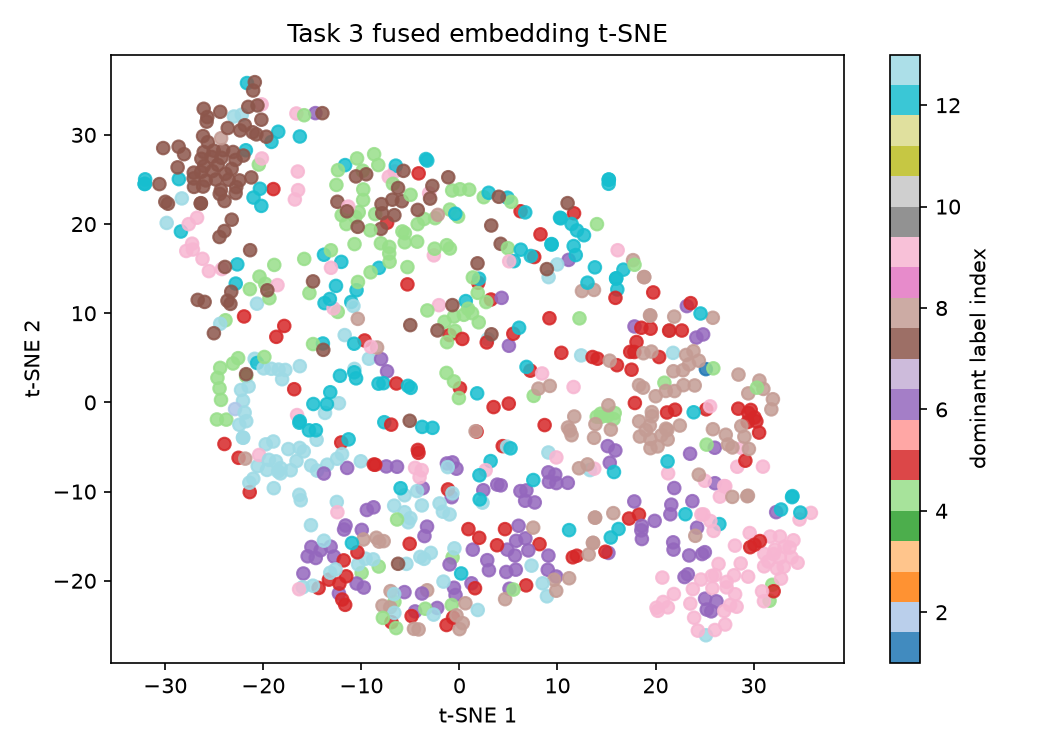
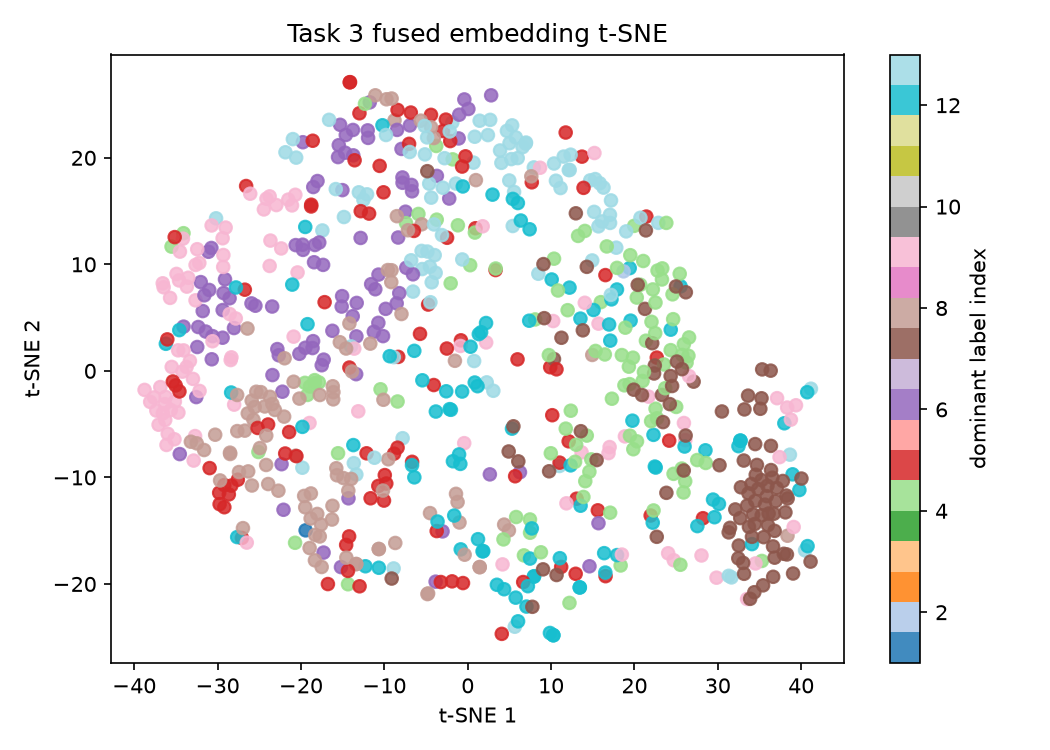
added detailed breakdown of the research

diff --git a/report/main.tex b/report/main.tex
@@ -141,6 +141,103 @@ accuracy and test loss. Checkpoints are selected using the validation
 procedure in the training scripts; the tables below contain held-out test
 metrics from the exported JSON artifacts.
 
+\section{Experimental Evolution and Reproducibility}
+\subsection{From smoke tests to real experiments}
+The project was developed in stages rather than by training a single final
+model. The initial scaffold included a synthetic graph generator and a
+smoke-test workflow. Synthetic samples used six controlled labels, small
+random node features, deterministic splits, and serialized graph manifests.
+This stage verified tensor shapes, checkpointing, evaluation, and
+case-study export. Synthetic outputs were deliberately excluded from the
+scientific results reported here.
+
+The next stage established the real text baseline. A MusicCaps download and
+preparation path was added, followed by stable hashing into 80/10/10
+train/validation/test partitions and DistilBERT fine-tuning. The project
+requirements then motivated the dataset decision: FMA-small was selected for
+the audio graph and fusion tasks, while MusicCaps was retained for the
+text-only proxy task. The repository was reorganized so raw data, processed
+features, split files, source modules, and task-specific results were
+separate and reproducible.
+
+Task 2 progressed through several engineering iterations. The pipeline first
+prepared FMA metadata and segment graphs, then separated mel-spectrogram
+caching from training, added batched CNN segment processing, expanded node
+features beyond MFCCs, corrected feature normalization before similarity
+construction, added per-file failure reports, and upgraded the GraphSAGE
+encoder and readout. Learning curves, confusion matrices, predictions, and
+an explicit CNN/GraphSAGE comparison were added after the held-out
+evaluation path was established.
+
+Task 3 was then isolated from the Task 2 trainer. Its development introduced
+a scan--select--prepare label workflow, explicit parsing of array-valued FMA
+tags, deterministic vocabulary selection, labeled text construction, an
+inner graph/text manifest join, leakage checks, positive class weighting,
+progress reporting, and separate training commands for all ablation
+conditions. The final analytics command reads completed runs without
+retraining and produces rankings, metric deltas, plots, predictions, and
+case studies.
+
+\begin{table*}[t]
+\caption{Development milestones and preserved evidence.}
+\label{tab:milestones}
+\centering
+\begin{tabular}{p{0.17\textwidth}p{0.27\textwidth}p{0.46\textwidth}}
+\toprule
+Stage & Research question & Preserved evidence\\
+\midrule
+Synthetic smoke test & Can graph/text training and evaluation run end to end? &
+\texttt{src/make\_synthetic\_data.py}, synthetic manifest, checkpoint and case-study workflow\\
+Task 1 baseline & Can contextual text encode the documented proxy labels? &
+MusicCaps preparation, DistilBERT checkpoint, metric history, predictions, F1 curve\\
+Dataset/layout decisions & Which datasets and directory contracts are valid? &
+Requirements PDF, README, Task 2/3 decision records, task-specific processed/results paths\\
+Task 2 preprocessing & Can real audio become leakage-controlled graphs and cached mels? &
+FMA metadata, audio features, scaling, graph manifest, split files, failure report, mel cache\\
+Task 2 modeling & Does graph structure beat a standard spectrogram baseline? &
+GraphSAGE/CNN checkpoints, learning curves, confusion matrices, predictions, comparison JSON\\
+Task 3 preparation & Can labels and text be built without target leakage? &
+Scan/select/prepare commands, fixed vocabulary, prepared text, inner-join manifest, validators\\
+Task 3 ablation & Which modality and fusion mechanism contributes? &
+Four checkpoints, histories, predictions, PR curves, t-SNE plots, case studies, comparison analysis\\
+\bottomrule
+\end{tabular}
+\end{table*}
+
+\subsection{Configuration and reproducibility}
+Unless overridden by a task command, experiments use seed 42, batch size 8,
+learning rate $3\times10^{-4}$, weight decay $10^{-4}$, dropout 0.2, three
+GraphSAGE layers, 256-dimensional graph and text projections, gradient
+clipping at 1.0, a factor-0.5 learning-rate scheduler, and early stopping
+with patience 12. Task 1 uses DistilBERT, maximum sequence length 128,
+batch size 8, learning rate $2\times10^{-5}$, and the documented real run.
+Task 2 and Task 3 use the same seed/configuration contract; Task 3 runs are
+capped at 20 epochs and select the best validation Macro-F1 checkpoint.
+The primary Task 3 fusion run uses positive weighting and every ablation
+uses the same fixed label order.
+
+\begin{table}[t]
+\caption{Core experimental hyperparameters.}
+\label{tab:hyperparameters}
+\centering
+\begin{tabular}{ll}
+\toprule
+Parameter & Value\\
+\midrule
+Seed & 42\\
+Audio sample rate / segment & 22,050 Hz / 5 s\\
+Mel bins / similarity threshold & 128 / 0.75\\
+Graph layers / hidden size & 3 / 256\\
+Text model / max length & DistilBERT / 128\\
+Dropout / batch size & 0.2 / 8\\
+Learning rate / weight decay & $3\times10^{-4}$ / $10^{-4}$\\
+Scheduler / early stopping & factor 0.5 / patience 12\\
+Gradient clipping & 1.0\\
+Task 3 loss & BCEWithLogitsLoss\\
+\bottomrule
+\end{tabular}
+\end{table}
+
 \section{Experiments and Results}
 \subsection{Task 1: DistilBERT proxy baseline}
 The exported Task 1 test artifact reports macro-F1 $0.9976$, micro-F1
@@ -222,6 +319,39 @@ Cross-attention & 0.0393 & \textbf{0.3546} & 0.1308\\
 \label{fig:ablation}
 \end{figure}
 
+\subsection{Training histories and post-ablation comparison}
+The exported histories provide evidence beyond the final test row. Task 1
+reaches its best validation Macro-F1 of 0.0438 at epoch 4 in the stored
+history. In Task 3, all three non-BERT conditions reach their best stored
+validation Macro-F1 at epoch 5, while BERT-only reaches its best at epoch 2.
+The large train/test gaps, especially for GNN-only and fusion, indicate
+overfitting and label imbalance rather than a lack of optimization alone.
+
+Relative to BERT-only, the post-ablation analysis reports the following
+cross-attention changes: Macro-F1 +0.0281, micro-F1 +0.1516, PR-AUC
++0.0942, and test loss +0.6663. Thus adding audio improves micro-level
+decisions and ranking quality, but the improvement is not uniform over
+labels. The ranking is metric-dependent: GNN-only is best for Macro-F1 and
+PR-AUC, cross-attention is best for micro-F1, and BERT-only has the lowest
+test loss.
+
+\begin{table}[t]
+\caption{Best validation epochs recorded in exported histories.}
+\label{tab:epochs}
+\centering
+\begin{tabular}{lcc}
+\toprule
+Run & Best epoch & Test Macro-F1\\
+\midrule
+Task 1 DistilBERT & 4 & 0.0409\\
+Task 3 BERT-only & 2 & 0.0111\\
+Task 3 GNN-only & 5 & 0.0427\\
+Task 3 early concat. & 5 & 0.0403\\
+Task 3 cross-attention & 5 & 0.0393\\
+\bottomrule
+\end{tabular}
+\end{table}
+
 \section{Qualitative Analysis}
 The repository exports t-SNE projections of fused embeddings, learning
 curves, and precision--recall curves for each ablation. These plots are
@@ -251,14 +381,53 @@ optimization difficulty.
 
 \section{Limitations and Future Work}
 This study does not report the optional emotion head or the advanced
-MusicCaps contrastive retrieval task. Task 1 and Tasks 2--3 also use
-different supervision and should not be compared directly. Future work
-should use a human-annotated multi-label benchmark, tune thresholds per
-label on validation data, report confidence intervals over repeated seeds,
-and investigate class-balanced objectives and calibration. Additional
-experiments should compare the similarity threshold and graph readout,
-include explicit graph-path explanations in the case studies, and evaluate
-the planned caption--audio retrieval objective.
+MusicCaps contrastive retrieval task. The original requirements also describe
+DEAM valence/arousal regression and cross-modal retrieval; these remain
+planned extensions rather than completed experiments. Task 1 and Tasks 2--3
+use different supervision and should not be compared directly. The repository
+also does not commit a full-data inventory table for exact track counts, so
+those counts should be inserted from the local preparation logs before final
+submission.
+
+The project has additional practical limitations. The Task 1 target is a
+caption-derived proxy, FMA metadata text is sparse and heterogeneous, and
+the selected Task 3 labels are imbalanced. The 0.5 threshold is global rather
+than label-calibrated. The graph contains rich handcrafted statistics, but
+the current study does not isolate each feature family or compare multiple
+similarity thresholds. Finally, the reported runs use one seed; repeated-seed
+confidence intervals are needed before claiming robust ranking differences.
+
+\subsection{Future-work roadmap}
+The next experiments follow directly from the preserved findings:
+\begin{enumerate}
+\item add per-label validation threshold tuning, calibrated probabilities,
+and repeated seeds with confidence intervals;
+\item compare class-balanced, focal, and asymmetric multi-label losses and
+report rare-label versus frequent-label performance;
+\item sweep graph similarity thresholds, adjacency variants, pooling
+strategies, and feature ablations;
+\item improve text coverage while maintaining strict exclusion of genre/tag
+targets and artist identity shortcuts;
+\item add the optional DEAM emotion head as a genuinely multi-task objective;
+\item implement paired graph--caption contrastive learning and report
+Caption-to-Audio and Audio-to-Caption Recall@1/5/10;
+\item expand qualitative analysis with graph paths, attention maps, and
+failure cases from all four ablations; and
+\item package exact dataset counts, vocabulary frequencies, split summaries,
+and preprocessing logs as supplementary reproducibility tables.
+\end{enumerate}
+
+\section{Artifact Map for Reproduction}
+The report is backed by task-specific artifacts rather than screenshots alone.
+Task 1 uses the metrics, test-metrics, predictions, and F1-curve files under
+\texttt{results/task1}. Task 2 uses both model metric files, predictions,
+learning curves, confusion matrices, and
+\texttt{task2\_model\_comparison.json}. Task 3 uses one metrics, prediction,
+case-study, learning-curve, PR-curve, and t-SNE bundle per condition, plus
+\texttt{task3\_ablation\_comparison.json} and
+\texttt{task3\_ablation\_analysis.txt}. Source modules under \texttt{src/}
+define the preprocessing and training contracts, while \texttt{README.md}
+contains the sequential commands needed to regenerate the pipeline.
 
 \section{Conclusion}
 We implemented a reproducible BERT, GraphSAGE, and graph--text fusion
@@ -268,6 +437,50 @@ are the strongest Task 3 source of macro-level multi-label signal. The
 ablation results support multimodal fusion as a useful direction, but also
 make clear that future gains require stronger supervision and improved
 generalization to rare labels.
+
+\appendices
+\section{Complete Plot Archive}
+The following figures are included so that the experimental work is retained
+in the Overleaf project rather than reduced to the summary tables. The
+learning curves show optimization histories, the precision--recall figures
+show per-label ranking behavior, the t-SNE figures show test embedding
+geometry, and the confusion matrices show class-specific Task 2 errors.
+
+\begin{figure*}[t]
+\centering
+\includegraphics[width=.48\textwidth]{task1_distilbert_f1_curve.png}
+\includegraphics[width=.48\textwidth]{task2_cnn_confusion_matrix.png}
+\includegraphics[width=.48\textwidth]{task2_graphsage_confusion_matrix.png}
+\includegraphics[width=.48\textwidth]{task2_cnn_learning_curves.png}
+\includegraphics[width=.48\textwidth]{task2_graphsage_learning_curves.png}
+\includegraphics[width=.48\textwidth]{task3_ablation_comparison.png}
+\caption{Task 1, Task 2, and post-ablation comparison plots.}
+\label{fig:archive-overview}
+\end{figure*}
+
+\begin{figure*}[t]
+\centering
+\includegraphics[width=.48\textwidth]{task3_bert_only_learning_curves.png}
+\includegraphics[width=.48\textwidth]{task3_bert_only_pr_curve.png}
+\includegraphics[width=.48\textwidth]{task3_bert_only_fused_tsne.png}
+\includegraphics[width=.48\textwidth]{task3_gnn_only_learning_curves.png}
+\includegraphics[width=.48\textwidth]{task3_gnn_only_pr_curve.png}
+\includegraphics[width=.48\textwidth]{task3_gnn_only_fused_tsne.png}
+\caption{BERT-only and GNN-only ablation diagnostics.}
+\label{fig:archive-single}
+\end{figure*}
+
+\begin{figure*}[t]
+\centering
+\includegraphics[width=.48\textwidth]{task3_early_concat_learning_curves.png}
+\includegraphics[width=.48\textwidth]{task3_early_concat_pr_curve.png}
+\includegraphics[width=.48\textwidth]{task3_early_concat_fused_tsne.png}
+\includegraphics[width=.48\textwidth]{task3_cross_attention_learning_curves.png}
+\includegraphics[width=.48\textwidth]{task3_cross_attention_pr_curve.png}
+\includegraphics[width=.48\textwidth]{task3_cross_attention_fused_tsne.png}
+\caption{Early-concatenation and cross-attention diagnostics.}
+\label{fig:archive-fusion}
+\end{figure*}
 
 \bibliographystyle{IEEEtran}
 \bibliography{references}

diff --git a/report/README.md b/report/README.md
@@ -4,11 +4,19 @@
 manuscript. Upload the contents of this folder to an Overleaf project using
 the IEEE Conference template, then compile `main.tex`.
 
-The manuscript reports only the real-run artifacts under `results/`. Task 1
-is explicitly identified as a MusicCaps caption-to-tag proxy experiment; the
-FMA-small Task 2 and Task 3 results are reported separately. The remaining
-plots and exported case studies can be added to the supplementary material
-or used while expanding the qualitative-analysis section.
+This is a full project report, not only a final-score summary. It documents
+the synthetic smoke-test stage, dataset selection, preprocessing decisions,
+graph construction, model iterations, hyperparameters, training histories,
+Task 2 baseline comparison, Task 3 four-condition ablation, post-ablation
+interpretation, artifact map, limitations, and future-work roadmap. The
+appendix embeds the complete plot archive. Task 1 is explicitly identified
+as a MusicCaps caption-to-tag proxy experiment; the FMA-small Task 2 and
+Task 3 results are reported separately.
+
+The manuscript reports only real-run artifacts under `results/`; synthetic
+data is discussed as engineering history and is not presented as an
+experimental result. Exported JSON predictions and case studies remain in
+the repository for detailed qualitative inspection.
 
 Before submission:
 
